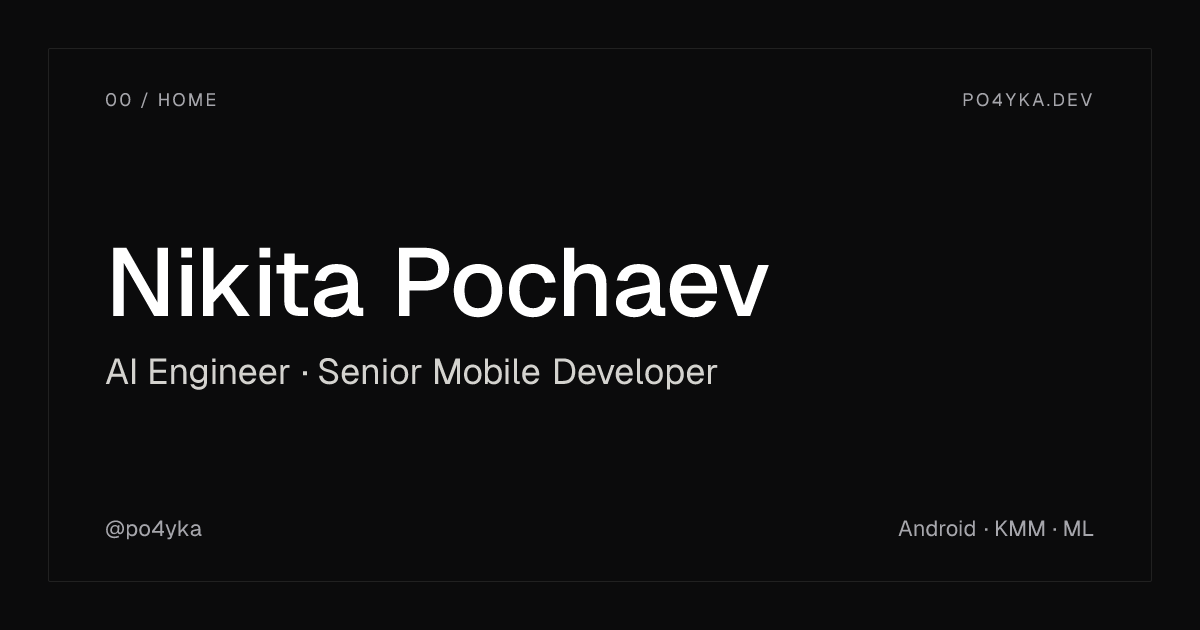
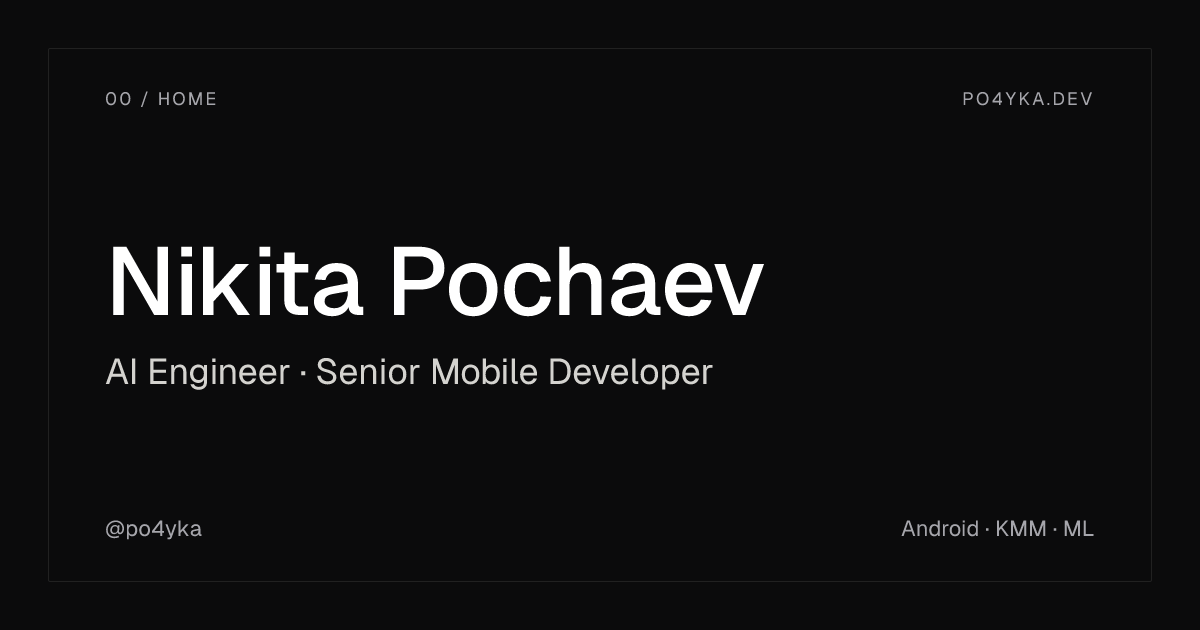
fix: keep OG card frame inside the canvas on satori 0.63
Satori 0.63 lays out with content-box sizing, so the padded 1200x630
root and its 100% inner frame overflowed the canvas and cut off the
footer row. Set border-box on both padded boxes.

diff --git a/scripts/generate-og-images.ts b/scripts/generate-og-images.ts
@@ -73,6 +73,7 @@ async function renderCard(post: {
           color: "#e9e8e4",
           fontFamily: "Geist",
           padding: "48px",
+          boxSizing: "border-box",
         },
         children: [
           {
@@ -86,6 +87,7 @@ async function renderCard(post: {
                 border: "1px solid rgba(233,232,228,0.10)",
                 borderRadius: "2px",
                 padding: "40px 56px",
+                boxSizing: "border-box",
                 justifyContent: "space-between",
               },
               children: [
@@ -174,6 +176,7 @@ async function renderDefaultCard(): Promise<Buffer> {
           color: "#e9e8e4",
           fontFamily: "Geist",
           padding: "48px",
+          boxSizing: "border-box",
         },
         children: [
           {
@@ -187,6 +190,7 @@ async function renderDefaultCard(): Promise<Buffer> {
                 border: "1px solid rgba(233,232,228,0.10)",
                 borderRadius: "2px",
                 padding: "40px 56px",
+                boxSizing: "border-box",
                 justifyContent: "space-between",
               },
               children: [
